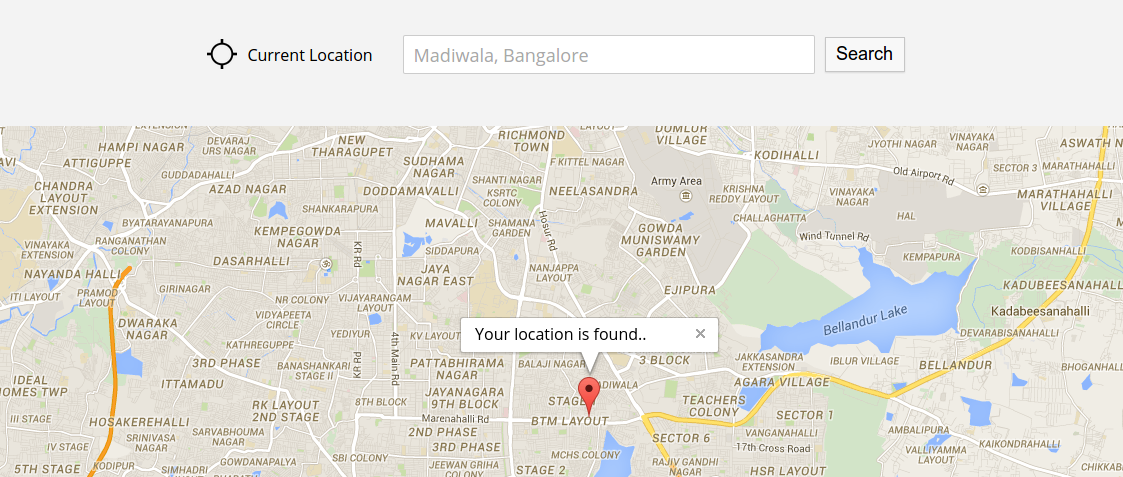
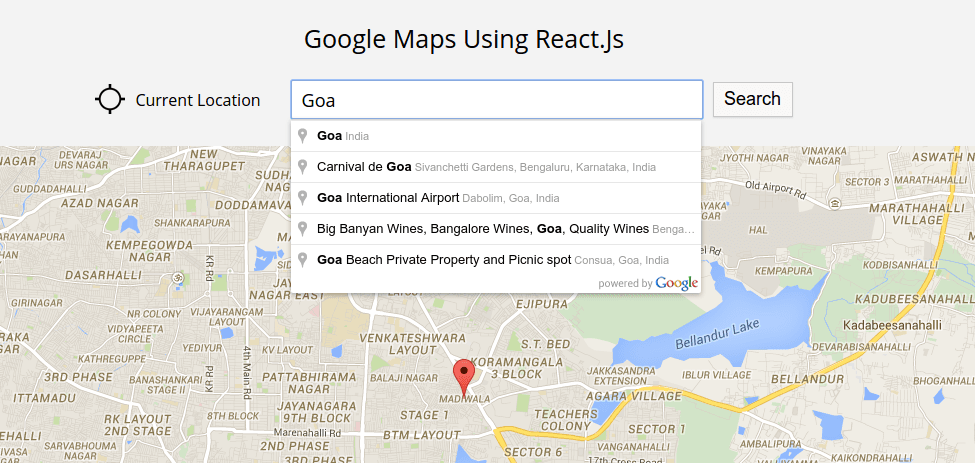
Added google maps autocomplete

diff --git a/app/js/application.js b/app/js/application.js
@@ -85,12 +85,12 @@ var Searchbar = React.createClass({
   render: function() {
     return (
       <div className="search-container">
-
+        <h1>Google maps using React.js</h1>
         <img src="../images/current-location.png" className="current-location" onClick={this.getCurrentLocation} />
 
         <span className="current-location-txt" onClick={this.getCurrentLocation}>Current Location</span>
 
-        <input type="text" id="search-input" placeholder="Madiwala, Bangalore" />
+        <input type="text" id="search-input" placeholder="Type your address..." />
         
         <button id="search" onClick={this.getAddress}>Search</button>
       </div> 
@@ -136,6 +136,41 @@ var App = React.createClass({
       map: map,
       title: 'location'
     });
+
+    var searchBar = document.getElementById('search-input');
+
+    //Adding autocomplete to search bar
+    var autocomplete = new google.maps.places.Autocomplete(searchBar);
+    autocomplete.bindTo('bounds', map); //Binding autocomplete
+
+    //On click of autocomplete search, add marker to palce
+    google.maps.event.addListener(autocomplete, 'place_changed', function(event) {
+      
+      marker.setVisible(false);//set marker to not visible
+      
+      //Selected place
+      var place = autocomplete.getPlace();
+
+      if (marker) {
+        marker.setMap(null);
+      }
+
+      //Adding marker to the selected location
+      var position = new google.maps.LatLng(place.geometry.location.A, place.geometry.location.F);
+
+      //Marker
+      marker = new google.maps.Marker({
+        map: map,
+        zoom: 25,
+        position: position
+      });
+
+      map.setZoom(17);
+      map.setCenter(marker.getPosition());
+      
+      marker.setVisible(true); //Set marker to visible
+    });
+
   },
   
   //Render google maps and search bar in page

diff --git a/app/index.html b/app/index.html
@@ -17,7 +17,7 @@
   <!-- script -->
   <script src="js/react.js"></script>
   <script src="js/JSXTransformer.js"></script>
-  <script src="https://maps.googleapis.com/maps/api/js?v=3.exp"></script>
+  <script src="https://maps.googleapis.com/maps/api/js?v=3.exp&libraries=places"></script>
   <script src="js/application.js" type="text/jsx" ></script>
 </body>
 </html>

diff --git a/app/css/master.css b/app/css/master.css
@@ -93,6 +93,12 @@ body {
   font-family: 'Open Sans', 'Arial', sans-serif;
   background: #f3f3f3; }
 
+h1 {
+  font-size: 25px;
+  text-transform: capitalize;
+  position: relative;
+  top: -25px; }
+
 #map {
   margin-top: 150px;
   min-height: 505px; }

diff --git a/app/scss/base.scss b/app/scss/base.scss
@@ -15,6 +15,13 @@ body {
   background: #f3f3f3;
 }
 
+h1 {
+  font-size: 25px;
+  text-transform: capitalize;
+  position: relative;
+  top: -25px;
+}
+
 #map {
   margin-top: 150px;
   min-height: 505px;
